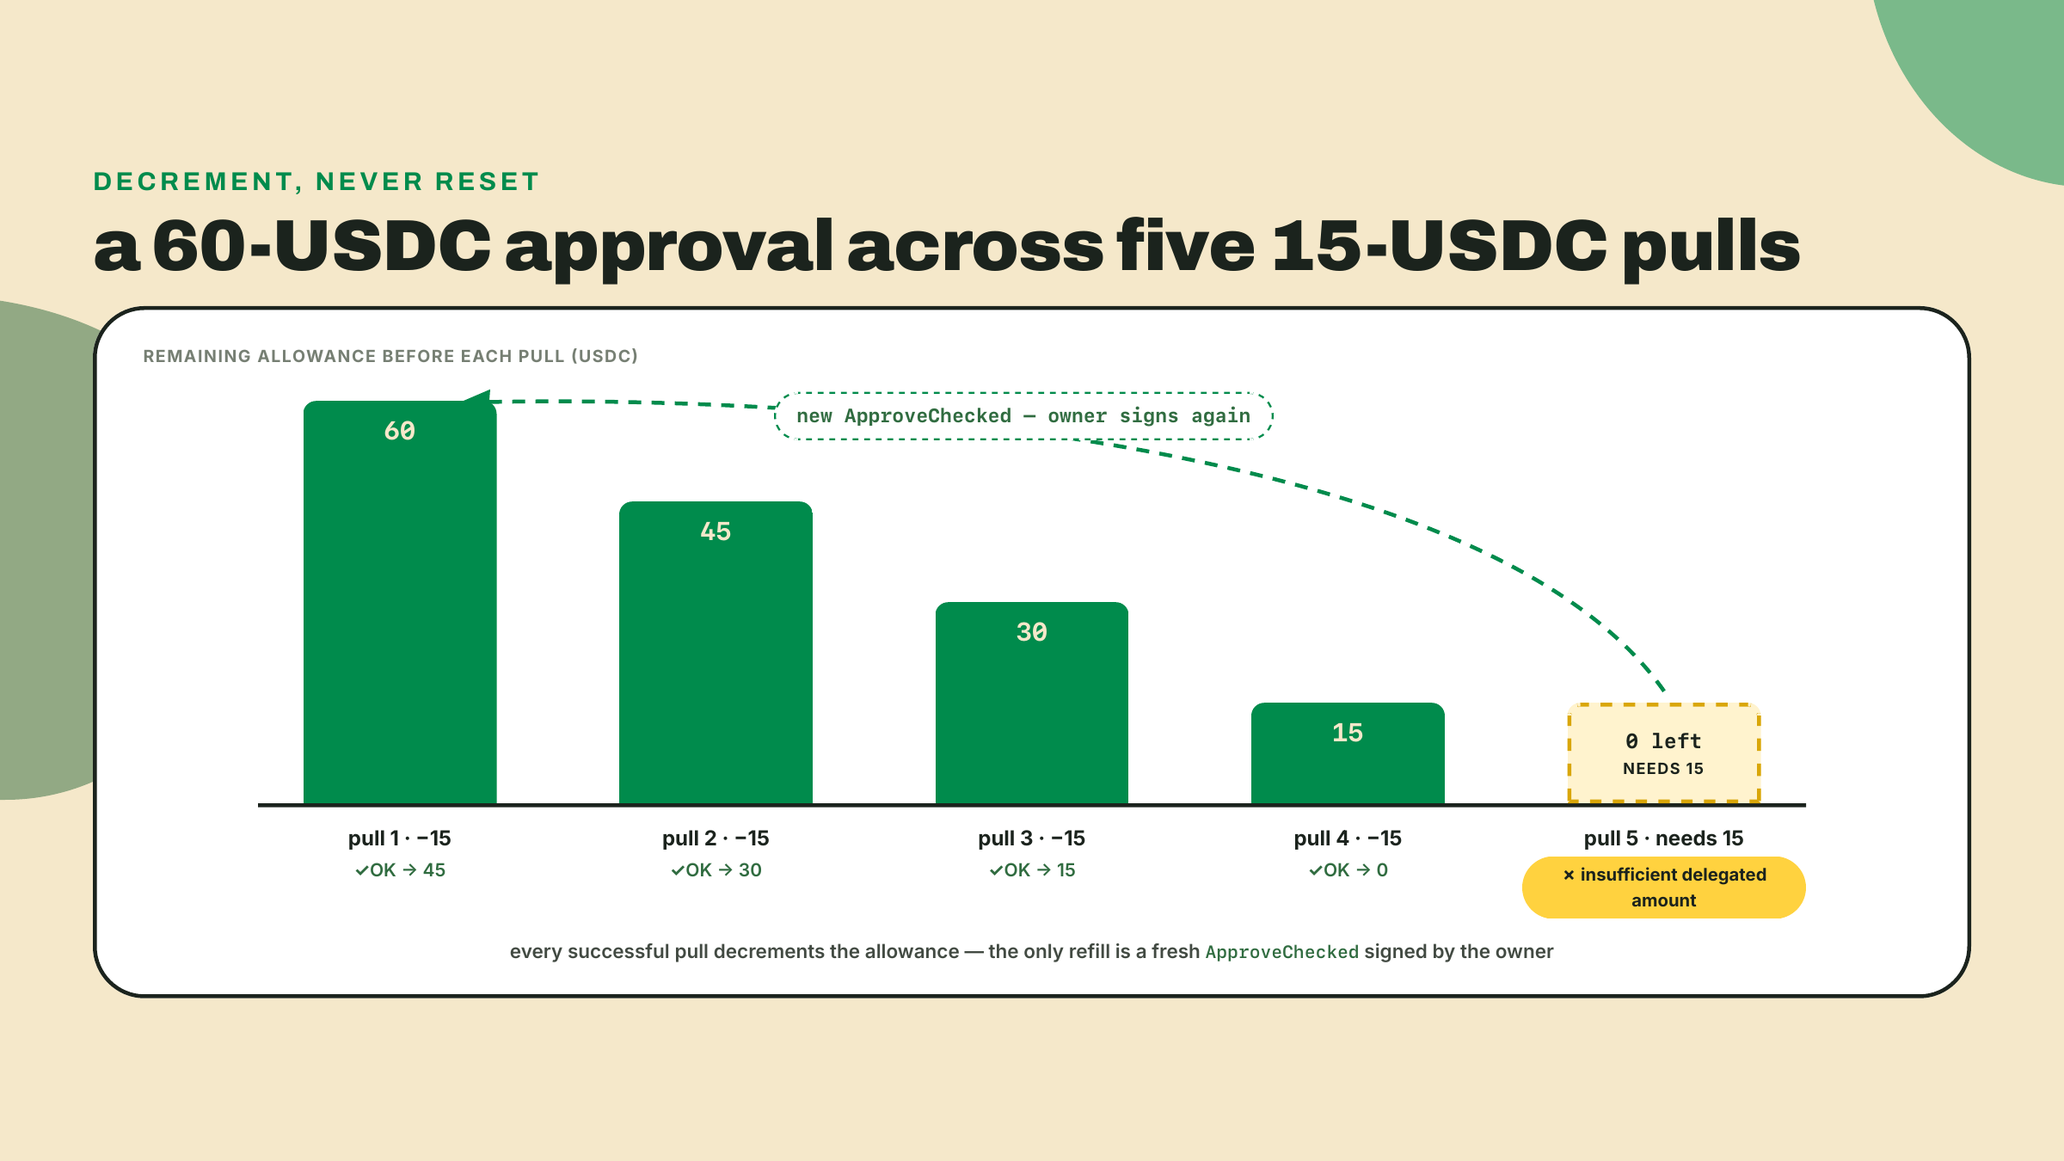
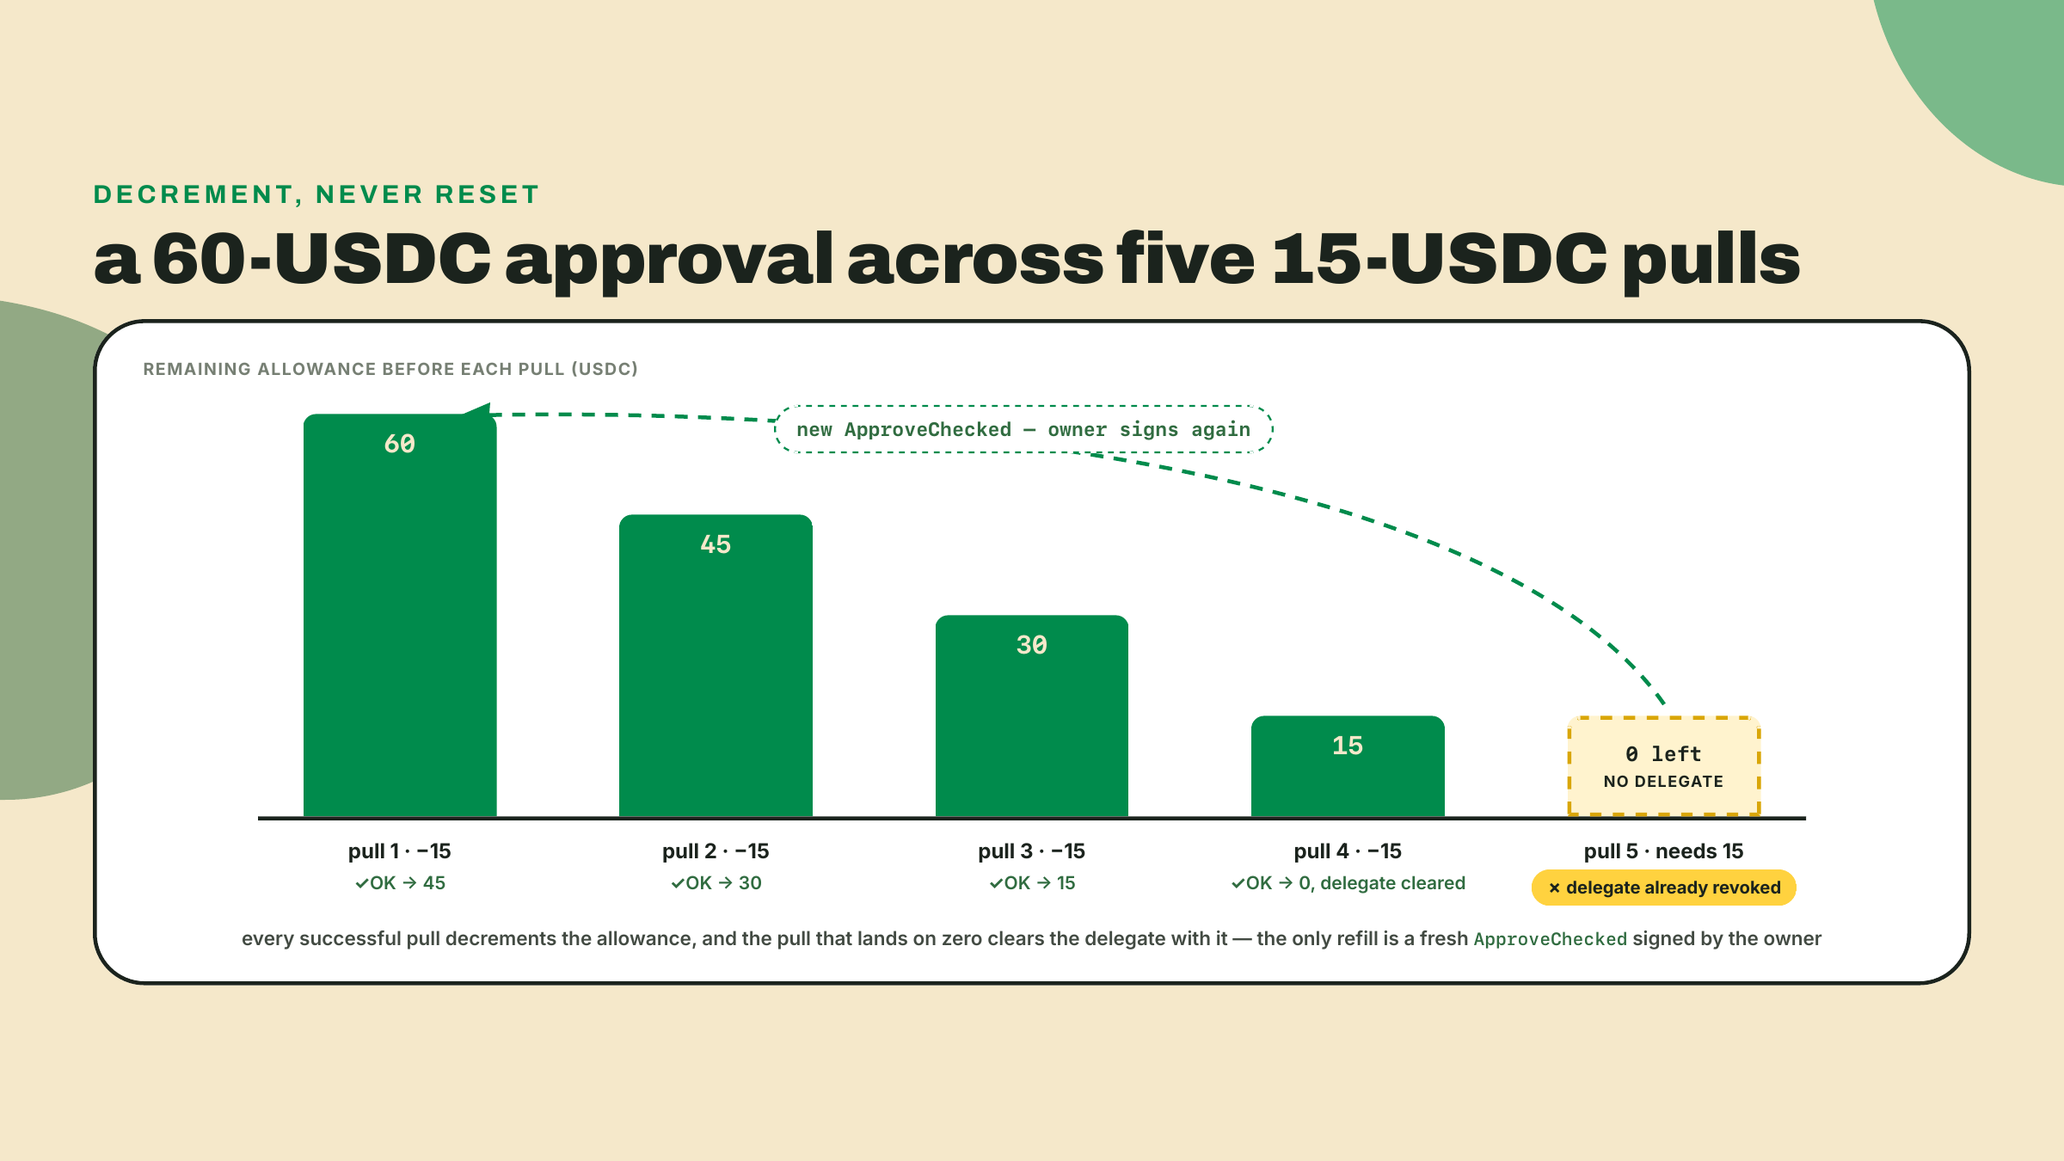
fix(payments): carry delegate-exhaustion through the rest of m05-l1
22d4d9a fixed the quiz but left the same misconception in the prose, the
lab and two rendered visuals. SPL Token clears the delegate when a
delegate-signed transfer drives the allowance to zero (spl-token 9.0.0
src/processor.rs:284-291, mirrored in process_burn at :634-639), so the
fifth pull on a 60/15 plan does not meet an empty allowance with the slot
still held: it meets an empty slot. The Token program routes it to
validate_owner against the account OWNER and fails with OwnerMismatch
(0x4), not InsufficientFunds (0x1), and the lesson's own guard reads
delegate === null and refuses `delegate-revoked` on question 1.

Sites corrected: the summary bullet and the allowance-section paragraph,
which named the wrong error and the wrong reason; the alt text of the
allowance chart and of the decision table; the lab test's fifth-pull case,
which fed the guard a state the chain cannot produce (delegate set,
allowance 0) and asserted `insufficient-allowance`; and the 0x4
troubleshooting note, which listed only a wrong-address cause.

`insufficient-allowance` stays a live, reachable branch and keeps its
worked examples: an allowance that is positive but short of the pull (10
against 15 in the offline test, the PLAN='45' step in the challenge) still
holds the slot and still fails as 0x1. The visuals now say so: v03's fifth
bar reads "no delegate", v04's first row credits exhaustion alongside
Revoke, and v04's third row drops "tank is dry".
[…]

diff --git a/courses/solana-payments-commerce/visual-src/m05-l1/v03-chart.html b/courses/solana-payments-commerce/visual-src/m05-l1/v03-chart.html
@@ -12,8 +12,8 @@
 <body>
 <!-- chart: A 60-USDC approval across five 15-USDC pull attempts
      purpose: fix the decrement-not-reset mental model with the lesson's one worked number
-     data: Pull 1: allowance before 60, after 45, result OK Pull 2: allowance before 45, after 30, result OK Pull 3: allowance before 30, after 15, result OK Pull 4: allowance before 15, after 0, result OK Pull 5: allowance before 0, needs 15, result FAILS, insufficient delegated amount Refill: only a fresh ApproveChecked signed by the owner
-     prompt: A descending step chart of the remaining allowance across five pull attempts: 60, 45, 30, 15, 0. The first four steps marked with a check as successful 15-USDC pulls; the fifth attempt marked failed at zero with the label "insufficient delegated amount". A dashed arrow from the failure back up to 60 labeled "new ApproveChecked, owner signs again". Axis labeled in USDC.
+     data: Pull 1: allowance before 60, after 45, result OK Pull 2: allowance before 45, after 30, result OK Pull 3: allowance before 30, after 15, result OK Pull 4: allowance before 15, after 0, result OK and the Token program clears the delegate at zero Pull 5: allowance 0 and no delegate on the account, needs 15, result FAILS, delegate already revoked Refill: only a fresh ApproveChecked signed by the owner
+     prompt: A descending step chart of the remaining allowance across five pull attempts: 60, 45, 30, 15, 0. The first four steps marked with a check as successful 15-USDC pulls, the fourth also noting that zeroing the allowance clears the delegate; the fifth attempt marked failed at zero with the label "delegate already revoked". A dashed arrow from the failure back up to 60 labeled "new ApproveChecked, owner signs again". Axis labeled in USDC.
      BUILD .viz as on-brand HTML per skills/content-gen/references/visual-rendering.md.
      Header: <div class="stbr-eyebrow">..</div> + <h2 class="viz-title">..</h2>.
      Leave the .stbr-decor block untouched (per-asset brand decoration).
@@ -72,7 +72,7 @@
         <div class="cell"><div class="bar" style="height:234px;">45</div></div>
         <div class="cell"><div class="bar" style="height:156px;">30</div></div>
         <div class="cell"><div class="bar" style="height:78px;">15</div></div>
-        <div class="cell"><div class="bar-need"><span>0 left</span><b>needs 15</b></div></div>
+        <div class="cell"><div class="bar-need"><span>0 left</span><b>no delegate</b></div></div>
       </div>
       <svg width="1200" height="330" viewBox="0 0 1200 330"
            style="position:absolute; top:0; left:0;">
@@ -86,10 +86,10 @@
       <div class="lab"><div class="p">pull 1 &middot; &minus;15</div><div class="r ok">OK &rarr; 45</div></div>
       <div class="lab"><div class="p">pull 2 &middot; &minus;15</div><div class="r ok">OK &rarr; 30</div></div>
       <div class="lab"><div class="p">pull 3 &middot; &minus;15</div><div class="r ok">OK &rarr; 15</div></div>
-      <div class="lab"><div class="p">pull 4 &middot; &minus;15</div><div class="r ok">OK &rarr; 0</div></div>
-      <div class="lab"><div class="p">pull 5 &middot; needs 15</div><div class="fail">&#10007; insufficient delegated amount</div></div>
+      <div class="lab"><div class="p">pull 4 &middot; &minus;15</div><div class="r ok">OK &rarr; 0, delegate cleared</div></div>
+      <div class="lab"><div class="p">pull 5 &middot; needs 15</div><div class="fail">&#10007; delegate already revoked</div></div>
     </div>
-    <div class="cap">every successful pull decrements the allowance &mdash; the only refill is a fresh <code>ApproveChecked</code> signed by the owner</div>
+    <div class="cap">every successful pull decrements the allowance, and the pull that lands on zero clears the delegate with it &mdash; the only refill is a fresh <code>ApproveChecked</code> signed by the owner</div>
   </div>
 
 </div>

diff --git a/courses/solana-payments-commerce/visual-src/m05-l1/v04-table.html b/courses/solana-payments-commerce/visual-src/m05-l1/v04-table.html
@@ -12,7 +12,7 @@
 <body>
 <!-- table: The guard: three questions before every pull
      purpose: give the reader the exact decision table they are about to implement as the completion exercise
-     data: Question 1: is a delegate set on the account at all? no  -> refuse, reason delegate-revoked (owner ran Revoke) Question 2: is the delegate OUR crank address? no  -> refuse, reason delegate-revoked (a competing approval evicted us) Question 3: does delegatedAmount cover this cycle's pull? no  -> refuse, reason insufficient-allowance (tank is dry, ask for re-approval) All yes -> pull, and expect on-chain allowance to equal delegatedAmount minus pull
+     data: Question 1: is a delegate set on the account at all? no  -> refuse, reason delegate-revoked (owner ran Revoke, or an earlier pull emptied the allowance and the Token program cleared the slot) Question 2: is the delegate OUR crank address? no  -> refuse, reason delegate-revoked (a competing approval evicted us) Question 3: does delegatedAmount cover this cycle's pull? no  -> refuse, reason insufficient-allowance (something is left, just not enough: ask for re-approval) All yes -> pull, and expect on-chain allowance to equal delegatedAmount minus pull
      prompt: A three-row decision table. Each row: a question in plain language, a monospace field check (delegate is null; delegate != crank; delegatedAmount < pull), and the refusal reason string it produces (delegate-revoked, delegate-revoked, insufficient-allowance). A final full-width success row: all checks pass, pull proceeds, allowance decrements. Reason strings styled as code.
      BUILD .viz as on-brand HTML per skills/content-gen/references/visual-rendering.md.
      Header: <div class="stbr-eyebrow">..</div> + <h2 class="viz-title">..</h2>.
@@ -72,7 +72,7 @@
     </div>
     <div class="trow">
       <div class="c c1"><span class="qnum">1</span><span class="q">is a delegate set on the account at all?</span>
-        <small>no &mdash; the owner ran Revoke</small></div>
+        <small>no &mdash; the owner ran Revoke, or a pull emptied the allowance and cleared the slot</small></div>
       <div class="c c2"><span class="chk">delegate is null</span></div>
       <div class="c c3"><span class="refuse">refuse</span><span class="why">delegate-revoked</span></div>
     </div>
@@ -84,7 +84,7 @@
     </div>
     <div class="trow">
       <div class="c c1"><span class="qnum">3</span><span class="q">does delegatedAmount cover this cycle's pull?</span>
-        <small>no &mdash; tank is dry, ask for re-approval</small></div>
+        <small>no &mdash; something is left, just not enough: ask for re-approval</small></div>
       <div class="c c2"><span class="chk">delegatedAmount &lt; pull</span></div>
       <div class="c c3"><span class="refuse">refuse</span><span class="why">insufficient-allowance</span></div>
     </div>

diff --git a/courses/solana-payments-commerce/lessons/m05-l1/intro.md b/courses/solana-payments-commerce/lessons/m05-l1/intro.md
@@ -31,7 +31,7 @@ While npm works, here is the one-sentence map: this lesson is the raw SPL Token 
 
 - `ApproveChecked` sets a delegate on a token account: an address allowed to move up to an approved amount of a specific mint, with the decimals stated so a wrong assumption fails loudly. The owner keeps ownership and can `Revoke` at any time, unilaterally, with one instruction.
 - Each token account has exactly ONE active delegate slot. Approving a new delegate automatically revokes the previous one. No per-delegate ledger, no pause state, no queue. This single rule is the design constraint the whole module orbits.
-- The approved amount is a running balance, not a cap that resets. Every delegate-signed transfer decrements it: a 60-USDC approval covers four 15-USDC pulls, and the fifth fails on insufficient delegated amount.
+- The approved amount is a running balance, not a cap that resets. Every delegate-signed transfer decrements it, and the transfer that lands it on exactly zero also clears the delegate slot: a 60-USDC approval covers four 15-USDC pulls, and the fifth finds no delegate on the account at all.
 - A backend "crank" holding the delegate keypair signs `TransferChecked` to pull funds on schedule. The subscriber signs nothing after the initial approval. The crank pays the 5000-lamport base fee per pull; the subscriber's per-cycle cost is zero signatures and zero fees.
 - The delegate can move only up-to-the-approved-amount of the approved mint from that one account. That bound is enforced by the Token program on-chain, not by the crank's goodwill. This is the honest answer to "can you drain my wallet?": no, and not because we promise.
 - Before every pull, re-read the account. The delegate may no longer be you, the allowance may be lower than your database thinks, and the on-chain state is the only ledger that matters.
@@ -85,9 +85,9 @@ The second thing Stripe-trained intuition gets wrong: the approved amount is not
 
 The record club charges 15 USDC per cycle. The subscriber approved 60. So:
 
-![A 60-USDC allowance steps down through 45, 30 and 15 across four successful pulls; the fifth pull fails, and only a fresh owner-signed approval refills it.](assets/v03-chart.png)
+![A 60-USDC allowance steps down through 45, 30 and 15 across four successful pulls; the fourth empties it and the Token program clears the delegate in the same instruction, so the fifth pull finds an empty slot, and only a fresh owner-signed approval restores both.](assets/v03-chart.png)
 
-Four pulls and the tank is dry. The fifth transaction fails at the Token program with `InsufficientFunds`, custom program error `0x1`, which here means the delegated amount ran out, not the balance; the account still holds plenty of USDC, the permission to move it is what is spent. There is nothing the crank can do about it except ask the subscriber to sign again. This is a feature wearing the costume of an inconvenience: the subscriber pre-consented to a bounded total, and the bound is doing its job. A 60-USDC approval is four months of the club, a natural re-consent cadence. You could ask for 600 up front and pull for years; some products will, and their churned users will discover a live allowance they forgot. Where you set the ceiling is a product decision the chain will not make for you. The chain only enforces whatever number the owner signed.
+Four pulls and the tank is dry, and the tank takes the tap with it. The Token program decrements `delegatedAmount` inside the delegate-signed transfer, and when that subtraction lands on exactly zero it sets the account's `delegate` back to none in the same instruction, which is the `null` your guard reads next cycle: exhausting an approval also clears it. So the fifth transaction does not fail on an empty allowance; it fails because the account has no delegate any more, which makes the crank's signature just some stranger's signature, and the Token program says so with `OwnerMismatch`, custom program error `0x4`. `InsufficientFunds`, custom program error `0x1`, is the neighboring case: an allowance too small for this pull but not yet zero, say 10 remaining against a 15-USDC charge, where the slot is still yours. Either way the account still holds plenty of USDC; the permission to move it is what is spent. There is nothing the crank can do about it except ask the subscriber to sign again. This is a feature wearing the costume of an inconvenience: the subscriber pre-consented to a bounded total, and the bound is doing its job. A 60-USDC approval is four months of the club, a natural re-consent cadence. You could ask for 600 up front and pull for years; some products will, and their churned users will discover a live allowance they forgot. Where you set the ceiling is a product decision the chain will not make for you. The chain only enforces whatever number the owner signed.
 
 One consequence worth pricing out: after the initial approval, the subscriber's cost per cycle is zero. No signature, no fee, nothing to remember. The crank pays the 5000-lamport base fee per pull, which at any plausible SOL price is a rounding error against a 15-USDC subscription. Compare that with the 2 to 3 percent a card network takes from every renewal, and you see why this shape is worth the trouble.
 
@@ -114,7 +114,7 @@ Because it is the same instruction shape, everything module 3 and 4 taught keeps
 
 The crank's real job, then, is not the transfer. It is the paragraph before the transfer: deciding whether pulling is still legitimate. I will confess the mistake so you can skip it: the first crank I wired cached the approval state at signup, because why would it change? A test wallet re-approved a different delegate mid-cycle, my crank submitted anyway, and I spent an evening staring at a custom program error 0x4 in a transaction log before the obvious sank in. The account state is the ledger. Your database is a cache with opinions. So the crank re-reads the token account every single cycle, before every pull, and answers three questions:
 
-![Three pre-pull checks map to outcomes: a missing or foreign delegate refuses as delegate-revoked, too small an allowance refuses as insufficient-allowance, and only an all-clear proceeds.](assets/v04-table.png)
+![Three pre-pull checks map to outcomes: a delegate that is missing, whether the owner revoked it or an earlier pull emptied the allowance and cleared the slot, refuses as delegate-revoked, and so does a foreign one; an allowance with something left but less than this cycle's pull refuses as insufficient-allowance; only an all-clear proceeds.](assets/v04-table.png)
 
 Could the crank skip the guard and just submit, letting the chain reject bad pulls? Mechanically yes, and the funds would be exactly as safe: the Token program enforces everything the guard checks. The guard exists because "transaction failed: custom program error 0x4" and "this subscriber revoked us, mark the subscription lapsed" are different facts to a billing system, and only one of them tells your back office what to do next. The chain gives you a no. The guard gives you the reason, before you spend a fee learning it. Those reason strings, `delegate-revoked` and `insufficient-allowance`, are the raw primitive's vocabulary, and the next two lessons keep the two names meaningful one layer down: the official program's guard adds its own reasons on top, and the continuity note in the next lesson's challenge walks the mapping explicitly.
 
@@ -207,11 +207,13 @@ The club: 15 devnet USDC per cycle, approved at 60, so the ledger tells the whol
    }
    expectCase('allowance exhausted after four pulls', allowance === 0n);
 
-   // 2. The fifth pull is refused BEFORE submission.
-   const fifth = checkPull({ delegate: CRANK, delegatedAmount: allowance, crank: CRANK, pullBase: PULL });
-   expectCase('fifth pull rejected', !fifth.ok && fifth.reason === 'insufficient-allowance');
+   // 2. The fourth pull zeroed the allowance, so the Token program cleared the delegate
+   //    in the same instruction: cycle five reads an empty slot, refused BEFORE submission.
+   const fifth = checkPull({ delegate: null, delegatedAmount: allowance, crank: CRANK, pullBase: PULL });
+   expectCase('fifth pull rejected', !fifth.ok && fifth.reason === 'delegate-revoked');
 
-   // 3. A partial allowance never over-pulls: 10 remaining cannot cover 15.
+   // 3. A partial allowance never over-pulls: 10 remaining cannot cover 15. Non-zero
+   //    means the delegate is still set, so this is the other refusal reason.
    const partial = checkPull({ delegate: CRANK, delegatedAmount: 10_000_000n, crank: CRANK, pullBase: PULL });
    expectCase('over-pull on partial allowance rejected', !partial.ok && partial.reason === 'insufficient-allowance');
 
@@ -431,7 +433,7 @@ Two pulls, two signatures, and the printed remaining allowance stepping down 45 
 
 **Solo.** Detect the eviction. Run a second `ApproveChecked` from the subscriber approving a DIFFERENT address as delegate (generate a throwaway keypair to play the coffee shop). Your crank's next `pull.ts` run must not error blindly and must not just say "revoked": extend the pull path so that a delegate that is set-but-foreign (eviction) and a delegate that is absent (plain revoke) are recorded distinctly: keep the guard's two-reason type untouched, and in a small JSON state file next to the scripts write `{ "state": "delegate-revoked", "cause": "evicted" }` versus `"cause": "revoked"`, then skip the account on future cycles until a fresh approval to the crank appears. Acceptance: two consecutive pulls succeed and decrement; a third over-cap pull is rejected before submission; re-approving a different delegate flips the crank's stored state to `delegate-revoked`; and a fresh `ApproveChecked` back to the crank makes pulls resume. That receipt trail, two decrementing signatures, one reasoned refusal, one detected eviction, is this lesson's mastery gate. The ledger proves it; no quiz can.
 
-If a pull fails with a custom program error `0x4` from the Token program, that is the on-chain spelling of "owner does not match," which for a delegate-signed transfer means the delegate check failed at the program: your guard read one account and your transfer targeted another, almost always a `SUBSCRIBER_ADDRESS` env var pointing at the wrong keypair.
+If a pull fails with a custom program error `0x4` from the Token program, that is the on-chain spelling of "owner does not match," which for a delegate-signed transfer means the account's delegate slot does not hold your crank: either it was revoked, evicted, or emptied to zero by an earlier pull, or your guard read one account and your transfer targeted another, almost always a `SUBSCRIBER_ADDRESS` env var pointing at the wrong keypair.
 
 One note for the feedback loop: this is the module where the course starts trusting you with scaffolds instead of finished files, and the guard TODOs are calibrated to the decision table above. If they took you more than twenty minutes, or the eviction detection felt under-specified, say so in the course feedback; how much scaffolding the next revision hands you is tuned by exactly these reports. The parts that fought you are the parts the next revision sharpens.
 
